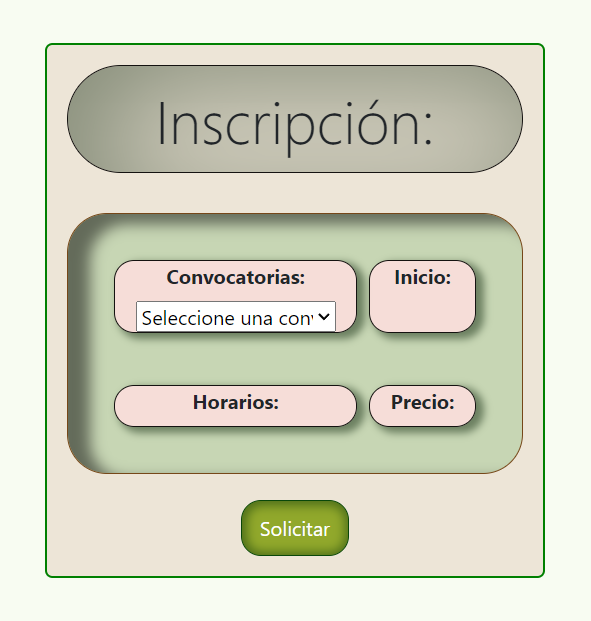
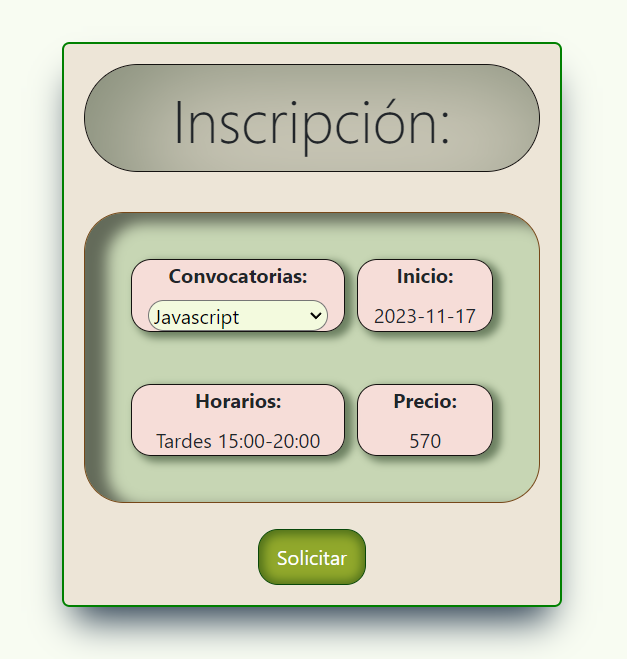
Refactor: img readme

diff --git a/src/containers/Inscription/Inscription.jsx b/src/containers/Inscription/Inscription.jsx
@@ -65,22 +65,25 @@ export const Inscription = () => {
 
         //RENDER INSCRIPTION CONTAINER
         <Container >
-            <Card style={{ maxWidth: '25em', margin: '0 auto', backgroundColor: '#9f512121', border: 'green solid 0.1em' }}>
+            <Card style={{ maxWidth: '25em', margin: '0 auto', backgroundColor: '#9f512121', border: 'green solid 0.1em',
+        boxShadow: 'rgb(38, 57, 77) 0em 1.25em 1.875em -0.625em'
+        }}>
                 <Card.Body>
 
                     {/* INSCRIPTION TITLE */}
                     <h2 className="textInscription mb-3 display-5">Inscripción:</h2>
-                    <div className="grid-container">
-                        <div className="grid-item">
+                    <div className="gridContainer">
+                        <div className="gridItem">
 
                             {/* GETTING UPCOMING CONVOCATIONS */}
                             <div className="labelCreate">Convocatorias:</div>
                             <select
+                            className='inscriptionSelector'
                                 value={convocationData.convocation_id}
                                 onChange={handleConvocationChange}
                                 style={{ width: '10em' }}
                             >
-                                <option value={0}>Seleccione una convocatoria</option>
+                                <option value={0}>Selecciona convocatoria</option>
                                 {upcomingConvocations.length > 0 ? (
                                     upcomingConvocations.map((convocation) => (
                                         <option key={convocation.id} value={convocation.id}>
@@ -94,19 +97,19 @@ export const Inscription = () => {
                         </div>
 
                         {/* DISPLAY THE BEGINNING DATE */}
-                        <div className="grid-item">
+                        <div className="gridItem">
                             <div className="labelCreate">Inicio:</div>
                             <span>{convocationData.beginning}</span>
                         </div>
 
                         {/* DISPLAY SCHELUDE */}
-                        <div className="grid-item">
+                        <div className="gridItem">
                             <div className="labelCreate">Horarios:</div>
                             <span>{convocationData.schedule}</span>
                         </div>
 
                         {/* DISPLAY THE PRICE */}
-                        <div className="grid-item">
+                        <div className="gridItem">
                             <div className="labelCreate">Precio:</div>
                             <span>{convocationData.program && convocationData.program.price}</span>
                         </div>

diff --git a/src/containers/Student/Student.jsx b/src/containers/Student/Student.jsx
@@ -53,20 +53,6 @@ export const Student = () => {
                             </div>
                         </div>
                     </Col>
-                    <Col xs={10} md={5} lg={3} className="d-flex justify-content-center g-1">
-                        <div className="adminCardTitle1">
-                            <div>
-
-                                {/* FORUM */}
-                            <Button
-                                    className="w-100 userCardTitle"
-                                    onClick={() => navigate("/forum")}
-                                >
-                                    FORO
-                                </Button>
-                            </div>
-                        </div>
-                    </Col>
                 </Row>
             </Container>
     );

diff --git a/src/containers/Inscription/Inscription.css b/src/containers/Inscription/Inscription.css
@@ -1,4 +1,4 @@
-.grid-container {
+.gridContainer {
   margin-top: 2em;
   display: grid;
   grid-template-columns: auto auto;
@@ -9,9 +9,10 @@
   padding: 2em;
   border: 0.01em solid rgb(118, 71, 24);
   box-shadow: inset 1em 0.4em 0.7em 0.1em rgba(0, 0, 0, 0.503);
+  
 }
 
-.grid-item {
+.gridItem {
   box-shadow: 0.3em 0.2em 0.4em 0.1em rgba(6, 32, 4, 0.476);
   margin: 0.3em;
   display: flex;
@@ -35,4 +36,10 @@
   display: flex;
   justify-content: center;
   align-items: center;
+}
+
+.inscriptionSelector{
+  max-width: 9em;
+  border-radius: 2em;
+  background-color: rgba(242, 255, 223, 0.838);
 }
